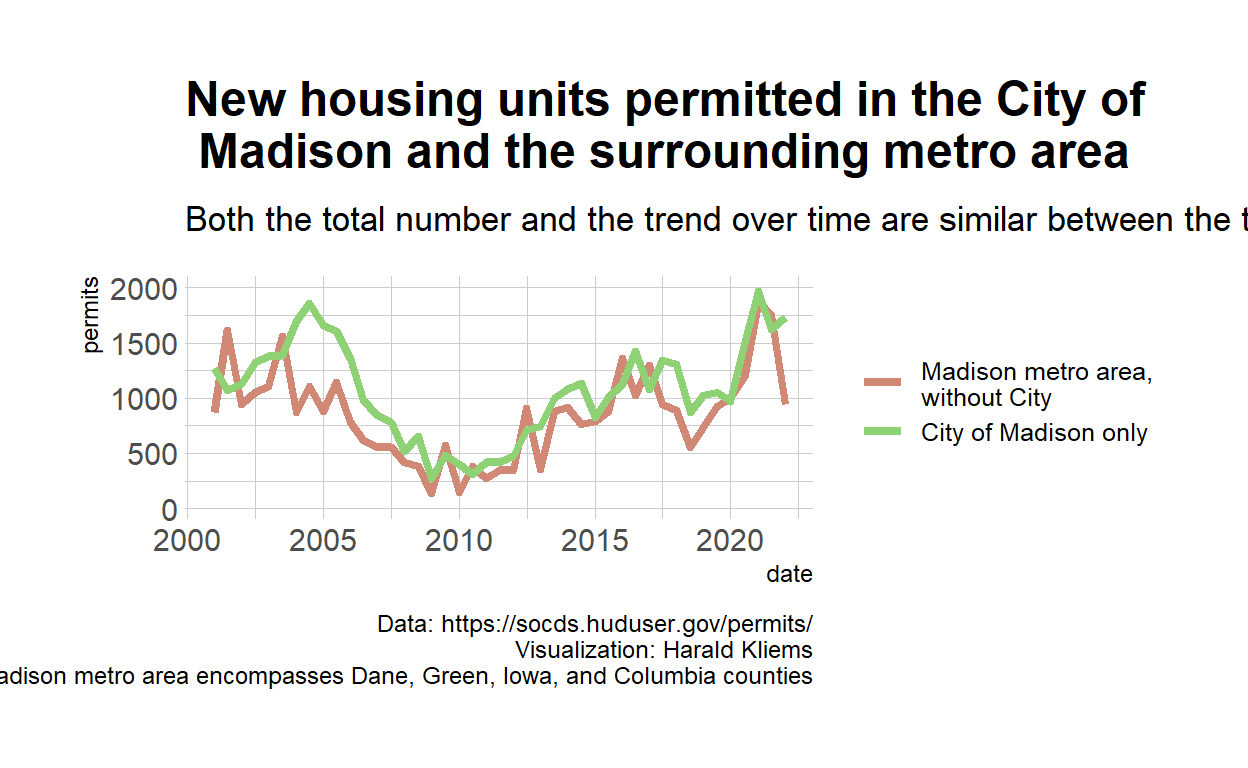
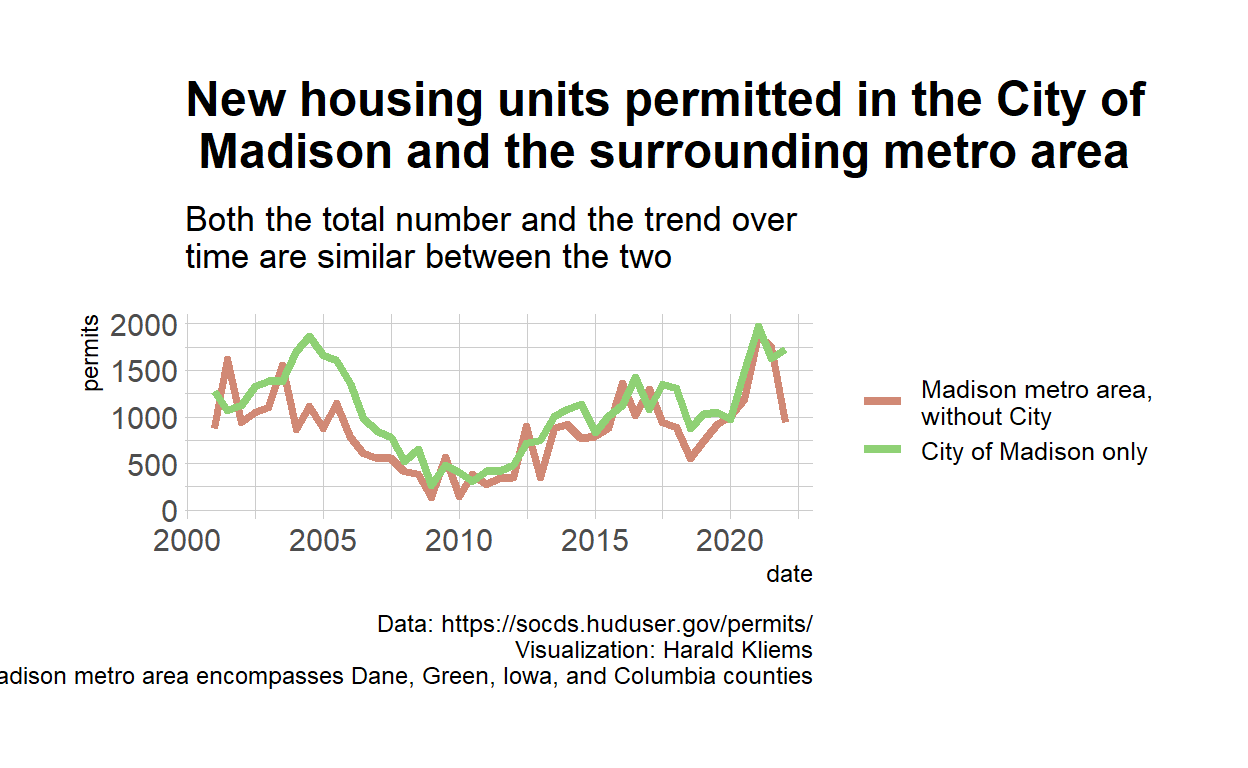
fixed subtitle

diff --git a/new_housing_madison.html b/new_housing_madison.html
@@ -1589,7 +1589,7 @@ Show code
   <span class='fu'>hrbrthemes</span><span class='fu'>::</span><span class='fu'><a href='https://rdrr.io/pkg/hrbrthemes/man/scale_ipsum.html'>scale_color_ipsum</a></span><span class='op'>(</span>name <span class='op'>=</span> <span class='cn'>NULL</span>, labels <span class='op'>=</span> <span class='fu'><a href='https://rdrr.io/r/base/c.html'>c</a></span><span class='op'>(</span><span class='st'>"Madison metro area,\nwithout City"</span>, <span class='st'>"City of Madison only"</span><span class='op'>)</span><span class='op'>)</span> <span class='op'>+</span>
   <span class='fu'>hrbrthemes</span><span class='fu'>::</span><span class='fu'><a href='https://rdrr.io/pkg/hrbrthemes/man/theme_ipsum_rc.html'>theme_ipsum_rc</a></span><span class='op'>(</span><span class='op'>)</span> <span class='op'>+</span>
   <span class='fu'><a href='https://ggplot2.tidyverse.org/reference/theme.html'>theme</a></span><span class='op'>(</span>legend.position <span class='op'>=</span> <span class='st'>"right"</span><span class='op'>)</span> <span class='op'>+</span>
-  <span class='fu'><a href='https://ggplot2.tidyverse.org/reference/labs.html'>labs</a></span><span class='op'>(</span>title <span class='op'>=</span> <span class='st'>"New housing units permitted in the City of\n Madison and the surrounding metro area"</span>, subtitle <span class='op'>=</span> <span class='st'>"Both the total number and the trend over time are similar between the two"</span>,
+  <span class='fu'><a href='https://ggplot2.tidyverse.org/reference/labs.html'>labs</a></span><span class='op'>(</span>title <span class='op'>=</span> <span class='st'>"New housing units permitted in the City of\n Madison and the surrounding metro area"</span>, subtitle <span class='op'>=</span> <span class='st'>"Both the total number and the trend over\ntime are similar between the two"</span>,
        caption <span class='op'>=</span> <span class='st'>"Data: https://socds.huduser.gov/permits/\nVisualization: Harald Kliems\nMadison metro area encompasses Dane, Green, Iowa, and Columbia counties"</span><span class='op'>)</span>
 </code></pre>
 </div>
